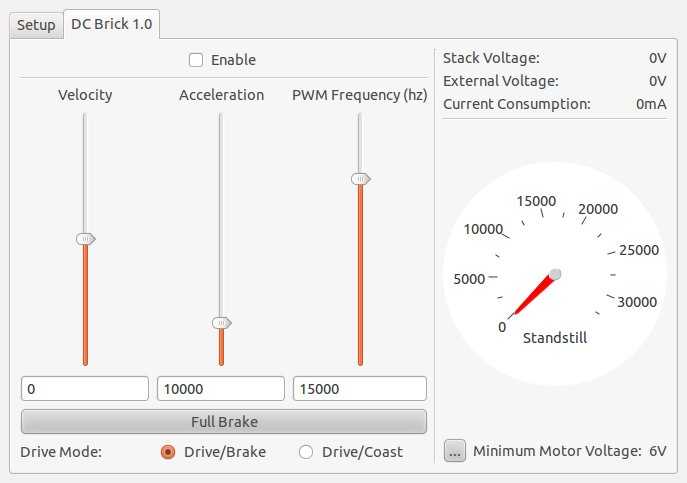
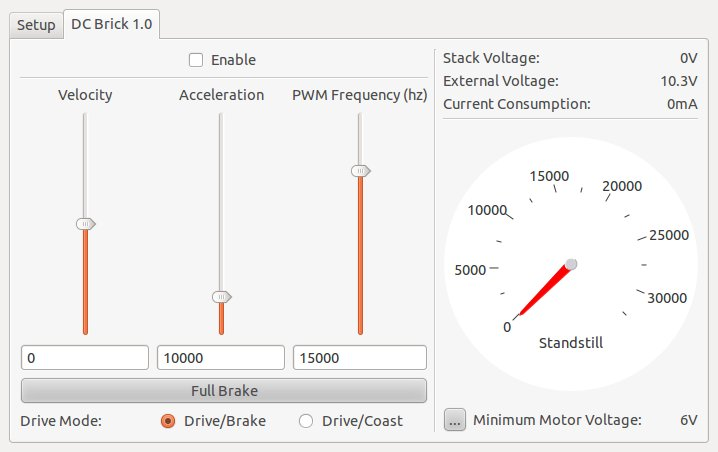
write some documentation for bricks

diff --git a/source/Hardware/Bricks/DC_Brick.rst b/source/Hardware/Bricks/DC_Brick.rst
@@ -81,12 +81,8 @@ Resources
 * `Kicad Project Page <http://kicad.sourceforge.net/>`__
 
 
-.. _dc_brick_test:
+.. _dc_brick_connectivity:
 
-Test your DC Brick
-------------------
-
-  
 Connectivity
 ------------
 
@@ -95,17 +91,68 @@ DC Brick.
 
 .. image:: /Images/Bricks/Servo_Brick/servo_brick_anschluesse.jpg
    :scale: 100 %
-   :alt: alternate text
+   :alt: Connectivity of DC Brick
    :align: center
+   :target: ../../_images/Bricks/servo_brick_anschluesse.jpg
 
+
+
+.. _dc_brick_test:
+
+Test your DC Brick
+------------------
+
+To test your DC Brick you have to start by installing the
+:ref:`Brick Daemon <brickd>` and the :ref:`Brick Viewer <brickv>`
+(see :ref:`here <tools_installation_brickdv>` for an installation tutorial).
+The former is a bridge between the Bricks/Bricklets and the programming
+language API bindings (you need this in any case if you want to use the
+Bricks/Bricklets). The latter is only for testing purposes. 
+
+Connect an DC brushed Motor to the Brick and a appropiate power supply
+(see :ref:`here <dc_brick_connectivity>`). Your assembly should look
+like below.
+
+.. image:: /Images/Bricks/Servo_Brick/servo_brick_test.jpg
+   :scale: 100 %
+   :alt: DC Brick with connected Motor and Battery
+   :align: center
+   :target: ../../_images/Bricklets/io16_brickv.jpg
+
+Now connect the Brick to the PC over USB, you should see a tab named
+"DC Brick" in the Brick Viewer after you pressed "connect", select it.
+
+.. image:: /Images/Bricks/dc_brickv.jpg
+   :scale: 100 %
+   :alt: Brickv view of the DC Brick
+   :align: center
+   :target: ../../_images/Bricks/dc_brickv.jpg
+
+In this tab you can test your driver if you enable it.
+You have three sliders to control
+the velocity (forward and backward), the acceleration and the 
+`PWM <http://en.wikipedia.org/wiki/Pulse-width_modulation>`__ frequency which
+is used by the driver to control the connected motor. On the right you see
+the voltages of the two power sources and the current consumption.
+Below you find a graphical representation of the velocity of your motor.
+At the bottom you can configure the minimum motor voltage, which lets you get
+undervoltage signals if the voltage is below.
+
+Below the sliders you can test the "Full Brake" and change the driving modes
+(see :ref:`here <dc_brick_drive_mode>` for more information).
+To start testing enable the driver and play around with the controls.
+
+After this test you can go on with writing your own application.
+See :ref:`Interface and Coding <dc_brick_programming_interfaces>` section for 
+the API of the DC Brick and examples in your programming language.
 
 Motor Powersupply
 -----------------
 
-.. Todo: Bildchen
-
-The connected motor can be powered through the onboard power-connector
-or through a :ref:`Power-Supply Board <product_overview_powersupplies>` in a stack.
+The connected motor can be powered through the onboard power-connector 
+(black connector) 
+or through a :ref:`Power-Supply Board <product_overview_powersupplies>` in a 
+stack.
 The Brick switches autonomously to the onboard power-connector when there
 is a voltage measured. 
 
@@ -135,9 +182,11 @@ There are two possible modes of motor controls:
 Error LED Sources
 -----------------
 
-* so long as undervoltage
-* emergency shutdown (over temperature over current of driver ic) 
-  until reenabling or disabling driver
+The red LED is enabled if you are below the minimum voltage
+(configurable) or the driver is in emergency shutdown state
+caused by over temperature or over current. To get the Brick operational you have
+to increase the voltage or in the latter case you have to let the driver 
+cool down and reenabling or disabling the driver.
 
 .. _dc_brick_programming_interfaces:
 

diff --git a/source/Hardware/Bricks/Servo_Brick.rst b/source/Hardware/Bricks/Servo_Brick.rst
@@ -83,10 +83,8 @@ Resources
 * `Kicad Project Page <http://kicad.sourceforge.net/>`__
 
 
-.. _servo_brick_test:
 
-Test your Servo Brick
----------------------
+.. _servo_brick_connectivity:
 
 Connectivity
 ------------
@@ -96,18 +94,69 @@ Servo Brick.
 
 .. image:: /Images/Bricks/Servo_Brick/servo_brick_anschluesse.jpg
    :scale: 100 %
-   :alt: alternate text
+   :alt: Connectivity of the Servo Brick
    :align: center
+   :target: ../../_images/Bricks/servo_brick_anschluesse.jpg
+
+
+
+.. _servo_brick_test:
+
+Test your Servo Brick
+---------------------
+
+To test your Servo Brick you have to start by installing the
+:ref:`Brick Daemon <brickd>` and the :ref:`Brick Viewer <brickv>`
+(see :ref:`here <tools_installation_brickdv>` for an installation tutorial).
+The former is a bridge between the Bricks/Bricklets and the programming
+language API bindings (you need this in any case if you want to use the
+Bricks/Bricklets). The latter is only for testing purposes. 
+
+Connect a RC Servo to port 0 of the Brick and a appropiate power supply
+(see :ref:`here <servo_brick_connectivity>`). Your assembly should look
+like below.
+
+.. image:: /Images/Bricks/Servo_Brick/servo_brick_test.jpg
+   :scale: 100 %
+   :alt: Servo Brick with connected Servo and Battery
+   :align: center
+   :target: ../../_images/Bricklets/io16_brickv.jpg
+
+Now connect the Brick to the PC over USB, you should see a tab named
+"Servo Brick" in the Brick Viewer after you pressed "connect", select it.
+
+.. image:: /Images/Bricks/servo_brickv.jpg
+   :scale: 100 %
+   :alt: Brickv view of the Servo Brick
+   :align: center
+   :target: ../../_images/Bricks/servo_brickv.jpg
+
+In the left part of the GUI you can select the servo which you like
+to control. You can enable it, configure the 
+`PWM <http://en.wikipedia.org/wiki/Pulse-width_modulation>`__ and configure
+the corresponding position. Below you have four sliders to control
+the position, velocity and acceleration of the servo. The fourth slider
+can be used to change the frequency of the PWM 
+(see :ref:`Configure Servo PWM <servo_brick_configure_servo_pwm>` for more 
+information).
+TODO
+
+.. _servo_brick_configure_servo_pwm:
+
+Configure Servo PWM
+-------------------
+
+* explain why pwm min/max (some servos have larger range)
+* explain pwm frequency (defaul
 
 
 Servo Powersupply
 -----------------
 
-.. Todo: Bildchen
-
 This device is equipped with an internal power-supply.
 It offers the possibilty to adjust the output voltages for the connected servos.
 The internal powersupply can be powered through the onboard power-connector
+(black connector)
 or through a :ref:`Power-Supply Board <product_overview_powersupplies>` in a stack.
 The Brick switches autonomously to the onboard power-connector when there
 is a voltage measured. Since we use a step-down switcher for the internal power-supply

diff --git a/source/Hardware/Bricks/Master_Brick.rst b/source/Hardware/Bricks/Master_Brick.rst
@@ -63,11 +63,7 @@ Resources
 * Project (`Download <https://github.com/Tinkerforge/master-brick/zipball/master>`__)
 * `Kicad Project Page <http://kicad.sourceforge.net/>`__
 
-
-.. _master_brick_test:
-
-Test your IMU Brick
--------------------
+.. _master_brick_connectivity:
 
 Connectivity
 ------------
@@ -77,22 +73,43 @@ Master Brick.
 
 .. image:: /Images/Bricks/Servo_Brick/servo_brick_anschluesse.jpg
    :scale: 100 %
-   :alt: alternate text
+   :alt: Connectivity of Master Brick
    :align: center
+   :target: ../../_images/Bricks/servo_brick_anschluesse.jpg
 
 
-.. Powersupply
-.. ^^^^^^^^^^^
+.. _master_brick_test:
 
-.. Todo: Bildchen
+Test your Master Brick
+-------------------
 
-Stacking
---------
+To test your Master Brick you have to start by installing the
+:ref:`Brick Daemon <brickd>` and the :ref:`Brick Viewer <brickv>`
+(see :ref:`here <tools_installation_brickdv>` for an installation tutorial).
+The former is a bridge between the Bricks/Bricklets and the programming
+language API bindings (you need this in any case if you want to use the
+Bricks/Bricklets). The latter is only for testing purposes. 
 
-Auf Tutorial verweisen.
-Todo: Hier Plug/Play beschreiben
-wann module erkannt
-beispiel
+Connect the Brick to the PC over USB. You should see a tab named
+"Master Brick" in the Brick Viewer after you pressed "connect", select it.
+
+.. image:: /Images/Bricks/master_brickv.jpg
+   :scale: 100 %
+   :alt: Brickv view of the Master Brick
+   :align: center
+   :target: ../../_images/Bricks/master_brickv.jpg
+
+You should see that the Master Brick isn't measuring any Stack voltages or 
+currents. This is because you have not attached a
+:ref:`Power-Supply Board <product_overview_powersupplies>`. When attaching
+such a board you should see the voltage applied to your Stack and the current
+flowing in.
+
+After this small test you can go on with writing your own application.
+See :ref:`Interface and Coding <master_brick_programming_interfaces>` section for 
+the API of the Master Brick and examples in your programming language.
+
+.. _master_brick_programming_interfaces:
 
 Programming Interfaces
 ----------------------
@@ -146,7 +163,4 @@ On Device Programming Interface
      :widths: 25, 8, 15, 12
 
      "Programming", "API", "Examples", "Installation"
-
-Troubleshoot
-------------
 

diff --git a/source/Tutorials/Tutorial.rst b/source/Tutorials/Tutorial.rst
@@ -216,6 +216,8 @@ After this we stop the motor and destroy the IP Connection.
 Building Stacks
 ---------------
 
+* TODO :ref:`Power-Supply Board <product_overview_powersupplies>` (optional)
+
 To reduce the wiring or saving USB hubs you can stack Bricks.
 You need a :ref:`Master Brick <master_brick>` at the bottom with a PC 
 connection to route the data between the PC and the Bricks of the Stack.
